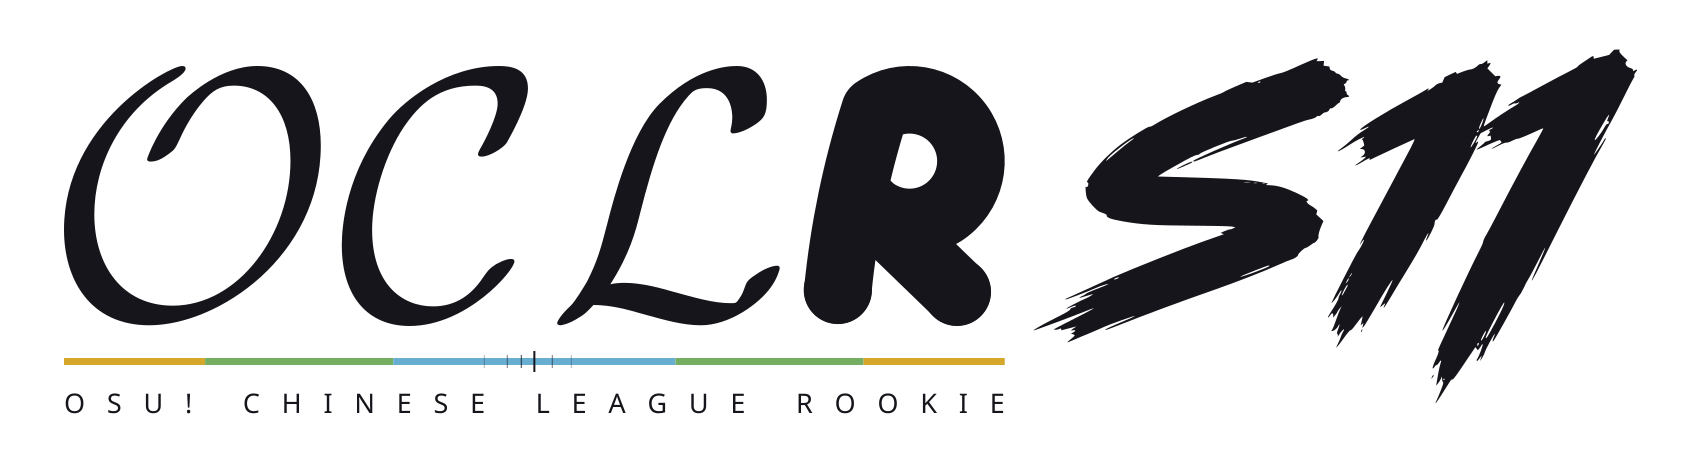
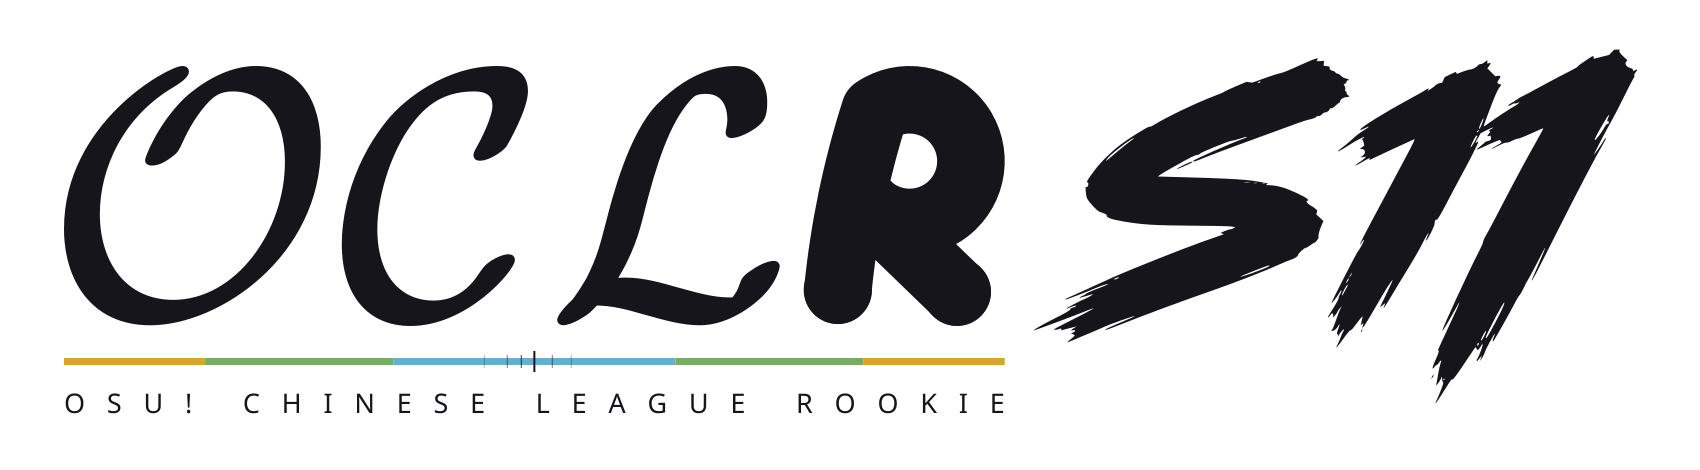
design(home): thicken mathcal strokes within original glyph bounds

diff --git a/design/home-visual/revision-04/index.html b/design/home-visual/revision-04/index.html
@@ -17,7 +17,7 @@
     <div class="controls" role="group" aria-label="预览内容"><button type="button" data-view="composition" aria-pressed="true">整体形状</button><button type="button" data-view="geometry" aria-pressed="false">R 控制点对照</button></div>
     <section id="composition" aria-label="整体形状">
       <figure class="stage"><img src="shape-board.svg" width="1700" height="470" alt="单色 OCL 花体大写、参考滑条 R 与右侧笔刷 S11；准度条位于主字母与英文全名之间"></figure>
-      <div class="notes"><p><strong>OCL</strong> · 真正的 <code>\mathcal{OCL}</code> 轮廓</p><p><strong>R</strong> · 参考控制点与滑条外形</p><p><strong>S11</strong> · 沿用右侧笔刷字形</p></div>
+      <div class="notes"><p><strong>OCL</strong> · <code>\mathcal{OCL}</code> 加粗，字高与字距不变</p><p><strong>R</strong> · 参考控制点与滑条外形</p><p><strong>S11</strong> · 沿用右侧笔刷字形</p></div>
     </section>
     <section id="geometry" class="hidden" aria-label="R 控制点对照">
       <div class="geometry-grid"><figure><img src="sources/r-reference.png" width="497" height="559" alt="用户提供的 R 滑条编辑器截图"><figcaption>参考截图</figcaption></figure><figure><img src="r-geometry-review.svg" width="497" height="559" alt="使用相同坐标重建的 R 滑条与六个控制点"><figcaption>同一坐标系的矢量重建</figcaption></figure></div>

diff --git a/design/home-visual/revision-04/compose.py b/design/home-visual/revision-04/compose.py
@@ -1,7 +1,7 @@
 """Compose the R04 shape proof from the three independently verifiable sources.
 
 OCL: literal LaTeX \\mathcal{OCL}; R: screenshot slider geometry; S11: existing brush art.
-All three are positioned with uniform scaling, without reshaping the supplied contours.
+R and S11 keep their supplied proportions. OCL gains weight inside its original glyph bounds.
 """
 from pathlib import Path
 import copy
@@ -9,11 +9,34 @@ import subprocess
 from xml.etree import ElementTree as ET
 from fontTools.ttLib import TTFont
 from fontTools.pens.svgPathPen import SVGPathPen
+from fontTools.pens.boundsPen import BoundsPen
+from fontTools.svgLib.path import parse_path
 
 ROOT = Path(__file__).resolve().parent
 NS = 'http://www.w3.org/2000/svg'
 ET.register_namespace('', NS)
 ET.register_namespace('xlink', 'http://www.w3.org/1999/xlink')
+
+
+def weight_mathcal(svg):
+    """Thicken by about 6.4 display units, preserving every glyph's outer bounds.
+
+    Insetting the source before stroking keeps the cap height, widths, baseline
+    and original TeX placements unchanged. No stroke is clipped by the viewBox.
+    """
+    stroke = .18
+    for path in svg.iter(f'{{{NS}}}path'):
+        bounds = BoundsPen(None)
+        parse_path(path.attrib['d'], bounds)
+        x0, y0, x1, y1 = bounds.bounds
+        cx, cy = (x0 + x1) / 2, (y0 + y1) / 2
+        sx, sy = (x1 - x0) / (x1 - x0 + stroke), (y1 - y0) / (y1 - y0 + stroke)
+        path.attrib.update({
+            'stroke': 'currentColor', 'stroke-width': str(stroke), 'stroke-linejoin': 'round',
+            'transform': f'translate({cx} {cy}) scale({sx} {sy}) translate({-cx} {-cy})',
+        })
+        assert abs((x1 - x0 + stroke) * sx - (x1 - x0)) < 1e-9
+        assert abs((y1 - y0 + stroke) * sy - (y1 - y0)) < 1e-9
 
 
 def asset(filename, name, x, y, height):
@@ -59,6 +82,7 @@ ET.SubElement(svg, f'{{{NS}}}desc', id='wordmark-desc').text = (
 )
 
 ocl, ocl_width = asset('ocl-mathcal.svg', 'OCL-mathcal', 64, 66, 260)
+weight_mathcal(ocl)
 svg.append(ocl)
 r_x = 64 + ocl_width + 24
 r, r_width = asset('r-shape.svg', 'R-reference-slider', r_x, 66, 260)

diff --git a/design/home-visual/revision-04/sources/SHAPE-SOURCES.md b/design/home-visual/revision-04/sources/SHAPE-SOURCES.md
@@ -2,7 +2,7 @@
 
 本轮按用户要求建立新稿，R03 保留。字形、滑条和英文全名均输出为 SVG 路径，不含图片、外部字体或滤镜。主体不加入纹理、阴影或角色背景。
 
-- **OCL**：`ocl-mathcal.tex` 中的原文 `\mathcal{OCL}`，经本机 LaTeX 与 dvisvgm `--no-fonts --exact-bbox` 转为路径。实际字体为 Computer Modern Symbols / CMSY10 的数学花体大写；未用替代手写字体或人为加粗。保留 TeX 字距，组合时统一等比放大。
+- **OCL**：`ocl-mathcal.tex` 中的原文 `\mathcal{OCL}`，经本机 LaTeX 与 dvisvgm `--no-fonts --exact-bbox` 转为路径。实际字体为 Computer Modern Symbols / CMSY10 的数学花体大写。按用户后续要求加粗笔画：组合脚本为原轮廓添加 0.18 字形单位的圆角描边，并先在每个字原有外接框内补偿，使最终外接框、260 单位字高、字宽、基线和 TeX 字距保持不变。没有放大字体或更换字体；原始未加粗 LaTeX 路径保留在 `ocl-mathcal.svg` 供重建。
 - **R**：见 [R-GEOMETRY.md](R-GEOMETRY.md)。控制点与可见轮廓取自用户提供的 [R 截图](r-reference.png)。截图读数的像素精度与缺失原始谱面文件的限制在几何记录中说明。
 - **S11**：见 [S11-SOURCE.md](S11-SOURCE.md)。沿用仓库中与用户第二张图一致的笔刷字芯，确定性矢量描摹，保留原始比例与笔刷切口。
 - **英文全名**：`OSU! CHINESE LEAGUE ROOKIE`，Noto Sans Regular 转路径；使用字距展开至 OCLR 宽度。此为全名的大写排印，没有新增比赛信息。

diff --git a/design/home-visual/README.md b/design/home-visual/README.md
@@ -77,6 +77,8 @@ R03 browser verification: Chrome loaded the native SVG and 1600×900 homepage co
 
 The final OCL source is literal `\mathcal{OCL}`, generated with LaTeX and dvisvgm as Computer Modern mathematical calligraphic capitals. The organizer's latest font clarification is reflected in the SVG and source. The earlier R03 files are unchanged.
 
+The follow-up weight adjustment thickens only OCL inside each original glyph bounding box. The cap height, glyph widths, TeX spacing and placement stay fixed; comparison with the preceding PNG confirms no changed pixels outside OCL.
+
 `python design/home-visual/revision-04/compose.py` renders the final 1700×470 shape board and checks unique IDs and the absence of raster, text, filter or script nodes. The R screenshot geometry has measured-point, circular-arc and selected-outline checks recorded in its source document; the S11 tracing has an original-size contour comparison. Chrome loaded the composition and R comparison and exercised both view controls; the preview had no horizontal overflow at an observed 390 CSS-pixel viewport. The temporary viewport override was reset. The final calligraphic version was rendered and visually checked again. `node --check` and `git diff --check` pass.
 
 These are standalone design artifacts. No application code, catalogs, configuration or R03 assets changed; application/DB tests and production builds were not run. Visual acceptance and homepage integration remain separate.
